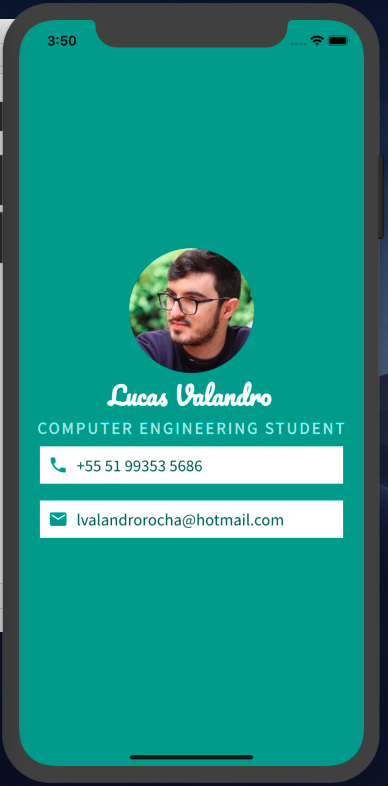
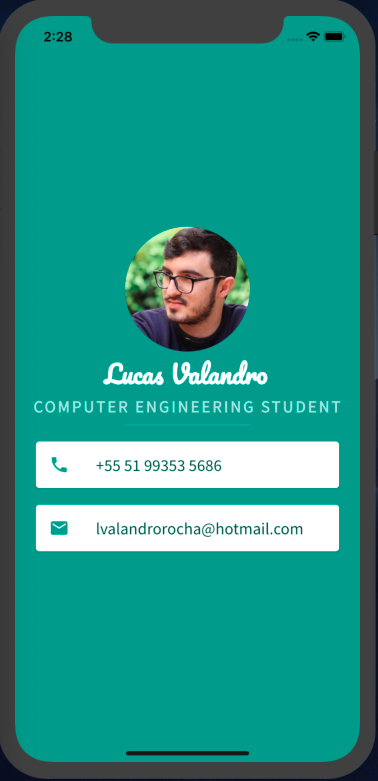
Usign Card Widget instead of Row

Changed region(s): [[0.0873, 0.2766, 0.9021, 0.7068], [0.0, 0.0, 1.0, 1.0], [0.3201, 0.9526, 0.6693, 0.9834]]

diff --git a/mi_card/lib/main.dart b/mi_card/lib/main.dart
@@ -33,51 +33,46 @@ class MyApp extends StatelessWidget {
                     fontWeight: FontWeight.bold,
                     fontFamily: 'SourceSans'),
               ),
-              Container(
-                padding: EdgeInsets.all(10.0),
-                color: Colors.white,
-                margin: EdgeInsets.symmetric(vertical: 10.0, horizontal: 25.0),
-                child: Row(
-                  children: <Widget>[
-                    Icon(
-                      Icons.phone,
-                      color: Colors.teal,
-                    ),
-                    SizedBox(
-                      width: 10.0,
-                    ),
-                    Text(
-                      '+55 51 99353 5686',
-                      style: TextStyle(
-                        color: Colors.teal.shade900,
-                        fontFamily: 'SourceSans',
-                        fontSize: 20.0,
-                      ),
-                    ),
-                  ],
+              SizedBox(
+                height: 20.0,
+                width: 150.0,
+                child: Divider(
+                  color: Colors.teal.shade200,
                 ),
               ),
-              Container(
-                padding: EdgeInsets.all(10.0),
-                margin: EdgeInsets.symmetric(vertical: 10.0, horizontal: 25.0),
+              Card(
                 color: Colors.white,
-                child: Row(
-                  children: <Widget>[
-                    Icon(Icons.mail, color: Colors.teal),
-                    SizedBox(
-                      width: 10.0,
+                margin: EdgeInsets.symmetric(vertical: 10.0, horizontal: 25.0),
+                child: ListTile(
+                  leading: Icon(
+                    Icons.phone,
+                    color: Colors.teal,
+                  ),
+                  title: Text(
+                    '+55 51 99353 5686',
+                    style: TextStyle(
+                      color: Colors.teal.shade900,
+                      fontFamily: 'SourceSans',
+                      fontSize: 20.0,
                     ),
-                    Text(
+                  ),
+                ),
+              ),
+              Card(
+                  margin:
+                      EdgeInsets.symmetric(vertical: 10.0, horizontal: 25.0),
+                  color: Colors.white,
+                  child: ListTile(
+                    leading: Icon(Icons.mail, color: Colors.teal),
+                    title: Text(
                       'lvalandrorocha@hotmail.com',
                       style: TextStyle(
                         fontFamily: 'SourceSans',
                         color: Colors.teal.shade900,
                         fontSize: 20.0,
                       ),
-                    )
-                  ],
-                ),
-              )
+                    ),
+                  )),
             ],
           ),
         ),
